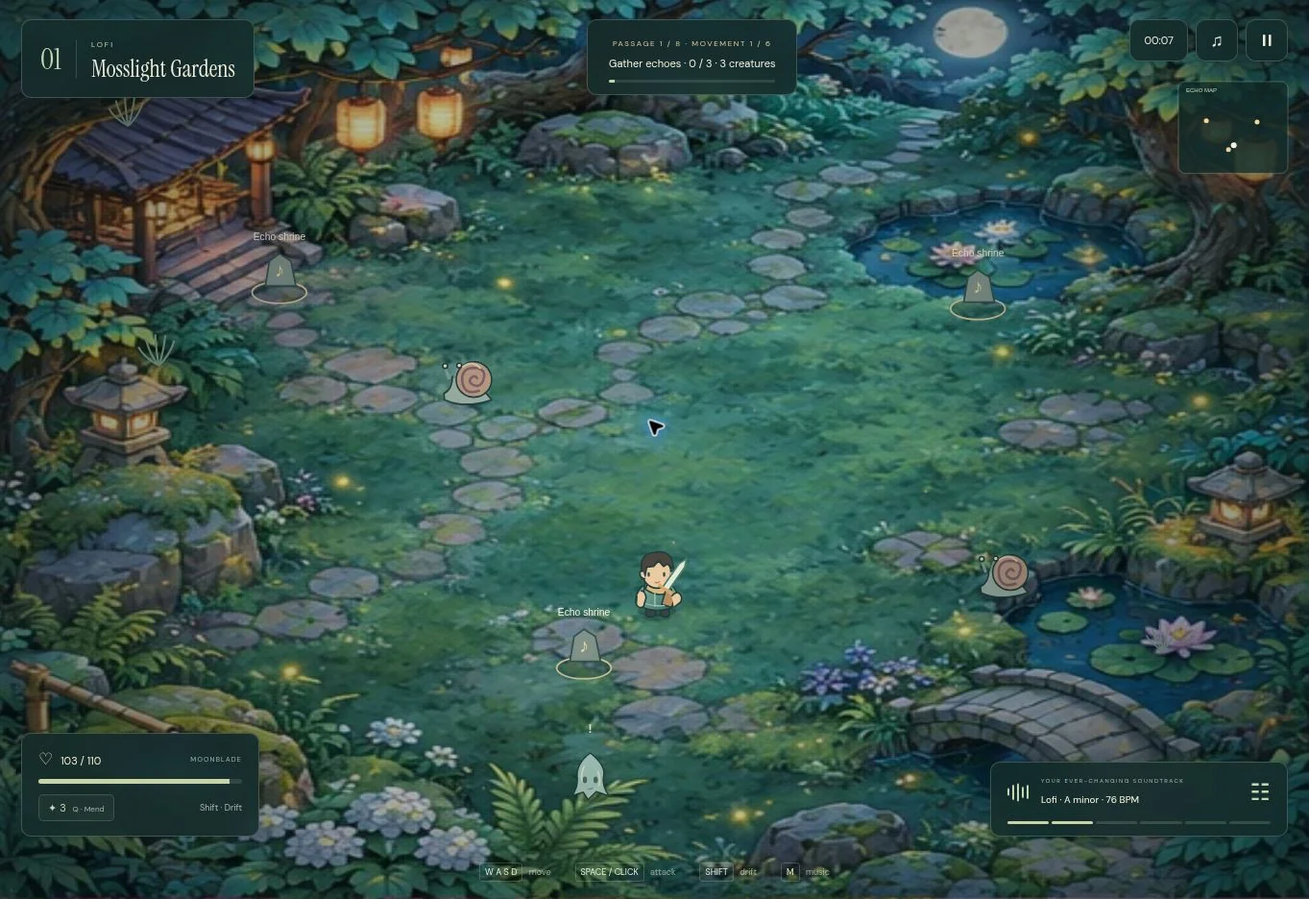
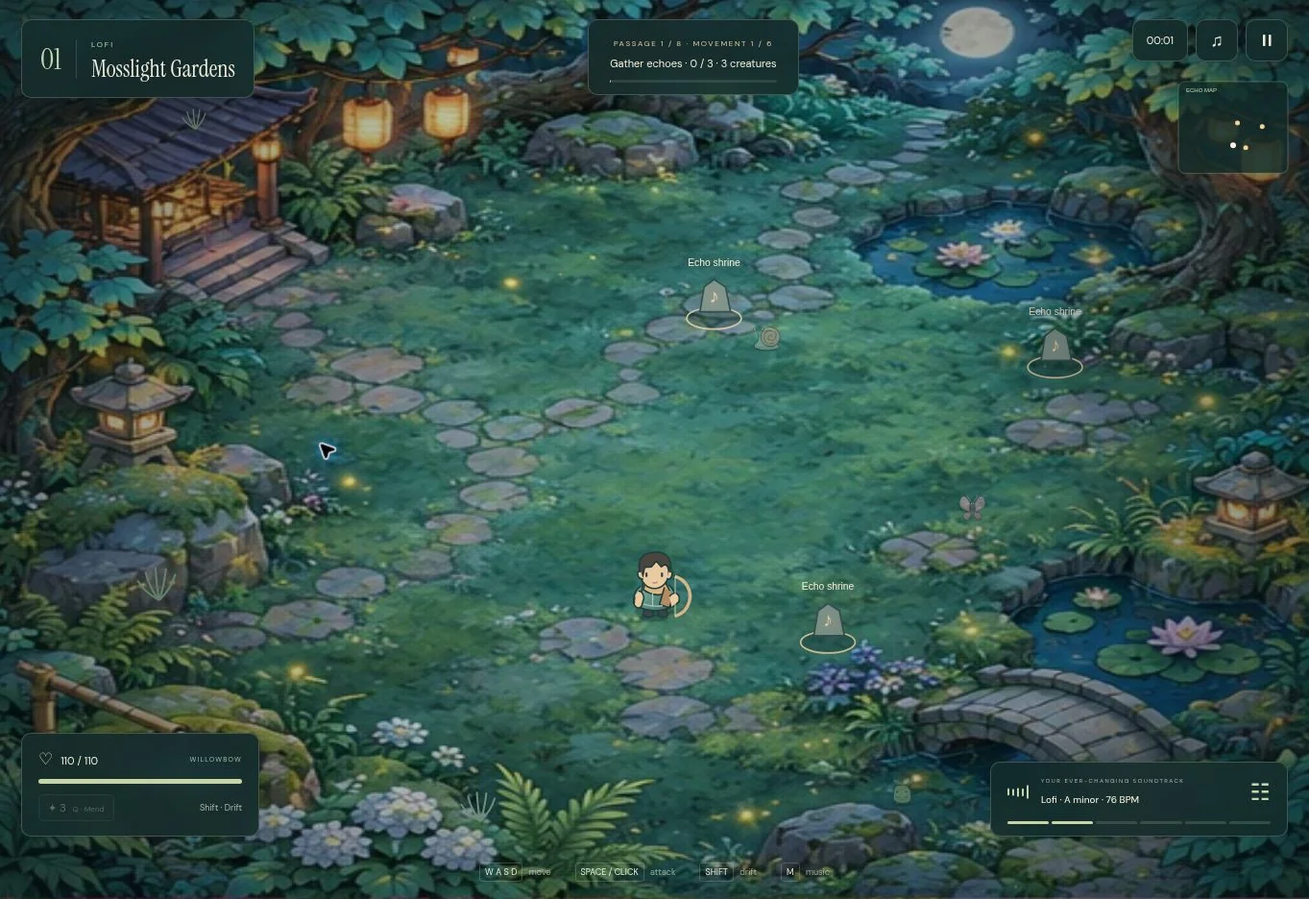
Tune bow balance, fix music effects and M toggle, scatter echo shrines
Reduce bow damage from 24 to 22 and range from 620 to 580. Apply swing to offbeat eighth notes throughout the arrangement, and strengthen filtered tape-delay repeats and live feedback control. Let M close the music panel from sliders and selects while preserving the prior pause state. Randomize each shrine across the map with spacing and safe arrival margins. Version the release module URLs and add behavioral and rendered-audio regression checks.

diff --git a/js/app.js b/js/app.js
@@ -79,9 +79,10 @@ async function resumeGame(){paused=false;closeModal();await audio.resume();}
 function goHome(){if(game?.state==='playing'||game?.state==='boon')checkpoint();closeModal();paused=false;$('game').hidden=true;$('home').hidden=false;document.body.style.overflow='';game=null;clearInput();refreshHome();}
 function showBoons(){paused=true;const boons=[{id:'edge',icon:'↗',name:'A keener edge',desc:'Deal 13% more damage with your weapon.'},{id:'heart',icon:'♡',name:'Room to breathe',desc:'Gain 18 maximum health. Restore 20 health.'},{id:'wind',icon:'⌁',name:'Lighter footsteps',desc:'Move 5.5% faster through every garden.'},{id:'flow',icon:'∞',name:'Find your flow',desc:'Attack 7% faster. Let the rhythm carry you.'}];openModal(`<div class="modal-inner">${header('A SMALL GIFT FOR THE ROAD.','How will you grow?','Choose a little help for this journey. These gifts reset when a new journey begins; your music stays.')}<div class="boon-cards">${boons.map(b=>`<button class="boon-card" data-boon="${b.id}"><span>${b.icon}</span><h3>${b.name}</h3><p>${b.desc}</p></button>`).join('')}</div></div>`,'boon');document.querySelectorAll('[data-boon]').forEach(b=>b.onclick=()=>{paused=false;closeModal();game.chooseBoon(b.dataset.boon);checkpoint();});}
 function showDeath(){paused=true;openModal(`<div class="modal-inner compact">${header('NOTHING BEAUTIFUL IS LOST.','The notes stay with you.','Every sound you discovered is safe in your collection. Take a breath, choose a companion, and wander again.')}<div class="stats-row"><div><b>${formatTime(game.elapsed)}</b><small>TIME WANDERING</small></div><div><b>${game.area+1}</b><small>WORLDS REACHED</small></div><div><b>${UNLOCKS.filter(u=>owned(u.id)).length}</b><small>SOUNDS KEPT</small></div></div><div class="pause-actions"><button id="tryAgain" class="button primary">Follow a new melody <span>↗</span></button><button id="deathHome" class="button secondary">Rest at the title <span>→</span></button></div></div>`,'death');$('tryAgain').onclick=showSetup;$('deathHome').onclick=goHome;}
-function showHelp(){openModal(`<div class="modal-inner">${closeMarkup}${header('A FEW FIELD NOTES.','Find your own rhythm.','Stillwave is an action roguelike with an original generative soundtrack. You never have to attack or move on the beat.')}<div class="notes-grid"><div class="note-card"><h3>Take the long way.</h3><p>Six worlds, each with eight 75-second passages and a guardian. Gather three echo shrines, survive six small encounters, then enter the north gateway. A complete run takes at least an hour of active play, usually around 70–90 minutes. You can pause and save along the way.</p></div><div class="note-card"><h3>Watch. Drift. Mend.</h3><p>Glowing marks show where an attack will land. Drift through danger with a brief invincible dash. Use a mending herb to restore 45 health. Echo shrines, green hearts, and passage endings heal you too. Gentle mode softens incoming damage.</p></div><div class="note-card"><h3>Keep the good sounds.</h3><p>Echo bearers appear in passages 2, 4, 6, and 8. Defeat them for permanent tracks, instruments, keys, effects, and time signatures. Every guardian grants a new instrument and genre. Your musical collection survives death.</p></div><div class="note-card"><h3>Make a little record.</h3><p>Open the music panel with M to mute tracks, change unlocked instruments, and shape the arrangement. All notes share a key and harmony. Finish the six worlds to unlock the full studio and export an original 60-second, stereo WAV.</p></div></div><table class="controls-table"><tbody><tr><td>WASD / arrows</td><td>Move</td></tr><tr><td>Hold click + mouse aim</td><td>Attack toward the pointer</td></tr><tr><td>Hold Space</td><td>Attack with optional nearby-target aim</td></tr><tr><td>Shift / right click</td><td>Drift · brief invincibility · 2-second recharge</td></tr><tr><td>E / Q</td><td>Gather or continue / heal</td></tr><tr><td>M / Escape</td><td>Music panel / pause</td></tr><tr><td>Touch screens</td><td>Left stick to move · hold Attack · tap Drift</td></tr></tbody></table><p class="preview-caption">Progress is stored in this browser. Save & return to title resumes at the start of the current passage. Clearing browser data removes progress.</p><div class="modal-actions"><button id="notesClose" class="button primary">Let’s wander <span>↗</span></button></div></div>`,'help');bindClose(closeModal);$('notesClose').onclick=closeModal;}
+function showHelp(){openModal(`<div class="modal-inner">${closeMarkup}${header('A FEW FIELD NOTES.','Find your own rhythm.','Stillwave is an action roguelike with an original generative soundtrack. You never have to attack or move on the beat.')}<div class="notes-grid"><div class="note-card"><h3>Take the long way.</h3><p>Six worlds, each with eight 75-second passages and a guardian. Gather three echo shrines, survive six small encounters, then enter the north gateway. A complete run takes at least an hour of active play, usually around 70–90 minutes. You can pause and save along the way.</p></div><div class="note-card"><h3>Watch. Drift. Mend.</h3><p>Glowing marks show where an attack will land. Drift through danger with a brief invincible dash. Use a mending herb to restore 45 health. Echo shrines, green hearts, and passage endings heal you too. Gentle mode softens incoming damage.</p></div><div class="note-card"><h3>Keep the good sounds.</h3><p>Echo bearers appear in passages 2, 4, 6, and 8. Defeat them for permanent tracks, instruments, keys, effects, and time signatures. Every guardian grants a new instrument and genre. Your musical collection survives death.</p></div><div class="note-card"><h3>Make a little record.</h3><p>Press M to open or close the music panel. Use it to mute tracks, change unlocked instruments, and shape the arrangement. All notes share a key and harmony. Finish the six worlds to unlock the full studio and export an original 60-second, stereo WAV.</p></div></div><table class="controls-table"><tbody><tr><td>WASD / arrows</td><td>Move</td></tr><tr><td>Hold click + mouse aim</td><td>Attack toward the pointer</td></tr><tr><td>Hold Space</td><td>Attack with optional nearby-target aim</td></tr><tr><td>Shift / right click</td><td>Drift · brief invincibility · 2-second recharge</td></tr><tr><td>E / Q</td><td>Gather or continue / heal</td></tr><tr><td>M / Escape</td><td>Toggle music panel / pause</td></tr><tr><td>Touch screens</td><td>Left stick to move · hold Attack · tap Drift</td></tr></tbody></table><p class="preview-caption">Progress is stored in this browser. Save & return to title resumes at the start of the current passage. Clearing browser data removes progress.</p><div class="modal-actions"><button id="notesClose" class="button primary">Let’s wander <span>↗</span></button></div></div>`,'help');bindClose(closeModal);$('notesClose').onclick=closeModal;}
 function showArchive(){openModal(`<div class="modal-inner">${closeMarkup}${header('A SOUND FOR EVERY MEMORY.','Your little collection.',`${UNLOCKS.filter(u=>owned(u.id)).length} of ${UNLOCKS.length} discoveries. Find echo bearers and guardians to fill the spaces. Every discovery stays after a new journey.`)}<div class="archive-grid">${UNLOCKS.map(u=>`<div class="unlock-card ${owned(u.id)?'':'locked'}"><span class="unlock-icon">${owned(u.id)?'♪':'◇'}</span><small>${u.kind}</small><b>${esc(u.name)}</b><p>${owned(u.id)?esc(u.desc):'Waiting somewhere along the way.'}</p></div>`).join('')}</div><p class="preview-caption">Your starting palette also includes felt piano, drums, chords, and A minor.</p></div>`,'archive');bindClose(closeModal);}
 const layerNames={drums:'Drum room',chords:'Chords',bass:'Bass',melody:'Little melody',pad:'Atmosphere',arp:'Arpeggio'};
+function dismissStudio(){if(exporting)return;if(studioReturn==='victory'||studioReturn==='home')goHome();else if(studioReturn==='pause')showPause();else resumeGame();}
 function showStudio(from='game'){
  studioReturn=from;if(game)paused=true;startAudio();
  const victory=from==='victory',finished=archive.cleared;
@@ -96,7 +97,7 @@ function showStudio(from='game'){
  $('studioVolume').oninput=e=>{music.volume=+e.target.value;$('out-volume').textContent=Math.round(music.volume*100)+'%';changed();};
  $('previewMusic').onclick=async()=>{muted=false;audio.mute(false);await startAudio();syncMusic();$('previewMusic').innerHTML='Music is playing <span>♫</span>';};
  $('newArrangement').onclick=()=>{audio.reseed(newSeed());$('arrangementSeed').textContent='Arrangement '+audio.seed.toString(36).toUpperCase();changed();toast('A new melody is finding its way','You’ll hear it from the next bar.');};
- const done=()=>{if(exporting)return;if(victory||from==='home'){goHome();}else if(from==='pause'){showPause();}else{resumeGame();}};bindClose(done);$('studioDone').onclick=done;
+ bindClose(dismissStudio);$('studioDone').onclick=dismissStudio;
  if($('exportSong'))$('exportSong').onclick=exportSong;
 }
 async function exportSong(){
@@ -108,13 +109,14 @@ async function exportSong(){
 }
 // Desktop and touch use the same simulation; only the input method changes.
 window.addEventListener('keydown',e=>{
+ const textEntry=e.target.isContentEditable||e.target.tagName==='TEXTAREA'||e.target.tagName==='INPUT'&&!['range','checkbox','radio','button'].includes(e.target.type);
+ if((e.code==='KeyM'||e.key?.toLowerCase()==='m')&&!textEntry&&(modalMode==='studio'||game?.state==='playing'&&!modal.open)){e.preventDefault();if(!e.repeat){if(modalMode==='studio')dismissStudio();else showStudio('game');}return;}
  const isField=/INPUT|SELECT|TEXTAREA/.test(e.target.tagName);if(isField)return;
  if(e.code==='Escape'){if(modal.open){e.preventDefault();return;}if(game?.state==='playing')showPause();return;}
- if(e.code==='KeyM'&&game?.state==='playing'&&!modal.open){e.preventDefault();showStudio('game');return;}
  if(!game||modal.open||paused)return;
  if(['Space','ArrowUp','ArrowDown','ArrowLeft','ArrowRight'].includes(e.code))e.preventDefault();keys.add(e.code);if(!e.repeat&&e.code==='KeyE')input.interact=true;if(!e.repeat&&e.code==='KeyQ')input.heal=true;
 });window.addEventListener('keyup',e=>keys.delete(e.code));
-modal.addEventListener('cancel',e=>{e.preventDefault();if(exporting)return;if(modalMode==='pause')resumeGame();else if(modalMode==='studio'){if(studioReturn==='victory'||studioReturn==='home')goHome();else if(studioReturn==='pause')showPause();else resumeGame();}else if(['setup','archive','help'].includes(modalMode))closeModal();});
+modal.addEventListener('cancel',e=>{e.preventDefault();if(exporting)return;if(modalMode==='pause')resumeGame();else if(modalMode==='studio')dismissStudio();else if(['setup','archive','help'].includes(modalMode))closeModal();});
 $('world').addEventListener('pointermove',e=>{if(e.pointerType!=='mouse')return;const rect=$('world').getBoundingClientRect(),pt=renderer.toWorld(e.clientX-rect.left,e.clientY-rect.top);input.aimX=pt.x;input.aimY=pt.y;input.hasAim=true;});
 $('world').addEventListener('pointerdown',e=>{if(modal.open)return;if(e.pointerType==='mouse'){if(e.button===2)input.dash=true;else{input.mouseDown=true;const rect=$('world').getBoundingClientRect(),pt=renderer.toWorld(e.clientX-rect.left,e.clientY-rect.top);input.aimX=pt.x;input.aimY=pt.y;input.hasAim=true;}}});
 window.addEventListener('pointerup',e=>{if(e.pointerType==='mouse')input.mouseDown=false;});$('world').addEventListener('contextmenu',e=>e.preventDefault());

diff --git a/js/music.js b/js/music.js
@@ -1,13 +1,20 @@
 import {REGIONS,KEYS,METERS,seeded,scaleNote,progression,clamp} from './data.js';
 export function beatSeconds(s){return 60/clamp(s.bpm,60,96)*(s.meter==='6/8'?.5:1);}
 export function barSeconds(s){return beatSeconds(s)*METERS[s.meter];}
+export function grooveTime(time,s){
+ const beat=beatSeconds(s),phase=(time/beat)%1;
+ // Delay the second eighth of each beat, including its subdivisions.
+ // At maximum swing the eighths form a relaxed 2:1 shuffle.
+ return time+(phase>=.5-1e-8&&phase<1-1e-8?beat*(clamp(s.swing||0,0,.28)/.28)/6:0);
+}
+export function delayParameters(s){const amount=clamp(s.delay||0,0,.45)/.45;return {time:beatSeconds(s)*.75,mix:amount*.60,feedback:.20+amount*.32};}
 export function composeBar(s,seed,bar){
  const rng=seeded((seed+Math.floor(bar/4)*6719)>>>0),detail=seeded((seed+bar*7919)>>>0);
  const beats=METERS[s.meter]||4,beat=beatSeconds(s),step=beat/4,steps=beats*4,root=KEYS[s.key]||57,deg=progression(s.scale,bar,seed),events=[];
  const density=s.density??.62,genre=s.genre|0;
- const push=(layer,t,n,d,v=.5,inst)=>{if(s.layers[layer])events.push({layer,t:Math.max(0,t),note:n,duration:d,velocity:v*(s.levels[layer]??.6),instrument:inst||s.instruments[layer]});};
+ const push=(layer,t,n,d,v=.5,inst)=>{if(s.layers[layer])events.push({layer,t:grooveTime(Math.max(0,t),s),note:n,duration:d,velocity:v*(s.levels[layer]??.6),instrument:inst||s.instruments[layer]});};
  const chord=[deg,deg+2,deg+4,...(genre===0||genre===3||genre===4?[deg+6]:[])],inversion=Math.floor(rng()*3);
- const groove=i=>i*step+(i%2?step*(s.swing||0):0);
+ const groove=i=>i*step;
  if(s.layers.chords){const times=genre===3?[0,beat*1.5,beat*2.5].filter(t=>t<beat*beats):[0];for(const t of times)chord.forEach((n,i)=>push('chords',t+i*.008,scaleNote(root,s.scale,n)+(i<inversion?12:0),genre===3?beat*.9:beat*beats*.86,.27+detail()*.06));}
  if(s.layers.pad)for(const n of [deg,deg+4,deg+9])push('pad',0,scaleNote(root-12,s.scale,n),beat*beats*1.1,.19);
  if(s.layers.bass){for(let b=0;b<beats;b++){if(b===0||b===Math.floor(beats/2)||(genre===3&&b===beats-1))push('bass',b*beat,scaleNote(root-24,s.scale,deg+(b===beats-1?4:0)),beat*(genre===4?1.6:.8),.62);}}
@@ -26,14 +33,14 @@ export function composeBar(s,seed,bar){
 }
 function noise(ctx){const b=ctx.createBuffer(1,ctx.sampleRate,ctx.sampleRate),d=b.getChannelData(0),rng=seeded(801);for(let i=0;i<d.length;i++)d[i]=rng()*2-1;return b;}
 function impulse(ctx){const len=Math.floor(ctx.sampleRate*2.7),b=ctx.createBuffer(2,len,ctx.sampleRate),rng=seeded(91);for(let c=0;c<2;c++){let last=0;const d=b.getChannelData(c);for(let i=0;i<len;i++){last=last*.45+(rng()*2-1)*.55;d[i]=last*Math.pow(1-i/len,3);}}return b;}
-function chain(ctx,s,destination){
+export function createMusicGraph(ctx,s,destination){
  const input=ctx.createGain(),filter=ctx.createBiquadFilter();filter.type='lowpass';filter.frequency.value=11000-(s.warmth||0)*8000;filter.Q.value=.45;
  const dry=ctx.createGain();dry.gain.value=.84;const convolver=ctx.createConvolver();convolver.buffer=impulse(ctx);const wet=ctx.createGain();wet.gain.value=(s.reverb||0)*.50;
- const delay=ctx.createDelay(2),feedback=ctx.createGain(),delayMix=ctx.createGain();delay.delayTime.value=beatSeconds(s)*.75;feedback.gain.value=.23;delayMix.gain.value=(s.delay||0)*.5;
+ const echo=delayParameters(s),delay=ctx.createDelay(2),feedback=ctx.createGain(),delayMix=ctx.createGain(),echoLow=ctx.createBiquadFilter(),echoHigh=ctx.createBiquadFilter();delay.delayTime.value=echo.time;feedback.gain.value=echo.feedback;delayMix.gain.value=echo.mix;echoLow.type='lowpass';echoLow.frequency.value=3000;echoLow.Q.value=.4;echoHigh.type='highpass';echoHigh.frequency.value=160;echoHigh.Q.value=.4;
  const compressor=ctx.createDynamicsCompressor();compressor.threshold.value=-20;compressor.knee.value=20;compressor.ratio.value=3.2;compressor.attack.value=.012;compressor.release.value=.3;
  const master=ctx.createGain();master.gain.value=(s.volume??.65)*.8;
- input.connect(filter);filter.connect(dry);dry.connect(compressor);filter.connect(convolver);convolver.connect(wet);wet.connect(compressor);filter.connect(delay);delay.connect(feedback);feedback.connect(delay);delay.connect(delayMix);delayMix.connect(compressor);compressor.connect(master);master.connect(destination);
- return {input,filter,wet,delay,delayMix,master,noise:noise(ctx)};
+ input.connect(filter);filter.connect(dry);dry.connect(compressor);filter.connect(convolver);convolver.connect(wet);wet.connect(compressor);filter.connect(delay);delay.connect(echoLow);echoLow.connect(echoHigh);echoHigh.connect(feedback);feedback.connect(delay);echoHigh.connect(delayMix);delayMix.connect(compressor);compressor.connect(master);master.connect(destination);
+ return {input,filter,wet,delay,feedback,delayMix,master,noise:noise(ctx)};
 }
 function percussion(ctx,out,e,t,buf){
  const gain=ctx.createGain();gain.connect(out);const v=e.velocity;
@@ -52,14 +59,14 @@ export function scheduleBar(ctx,graph,s,seed,bar,start,limit=Infinity){for(const
 export function encodeWav(channels,sampleRate){const length=channels[0].length,buffer=new ArrayBuffer(44+length*channels.length*2),v=new DataView(buffer);const text=(off,s)=>{for(let i=0;i<s.length;i++)v.setUint8(off+i,s.charCodeAt(i));};text(0,'RIFF');v.setUint32(4,buffer.byteLength-8,true);text(8,'WAVE');text(12,'fmt ');v.setUint32(16,16,true);v.setUint16(20,1,true);v.setUint16(22,channels.length,true);v.setUint32(24,sampleRate,true);v.setUint32(28,sampleRate*channels.length*2,true);v.setUint16(32,channels.length*2,true);v.setUint16(34,16,true);text(36,'data');v.setUint32(40,length*channels.length*2,true);let off=44;for(let i=0;i<length;i++)for(let c=0;c<channels.length;c++){const sample=clamp(channels[c][i],-1,1);v.setInt16(off,Math.round(sample*(sample<0?32768:32767)),true);off+=2;}return buffer;}
 export class MusicEngine{
  constructor(settings,seed){this.settings=structuredClone(settings);this.seed=seed;this.ctx=null;this.bar=0;this.next=0;this.muted=false;this.onBar=()=>{};}
- async start(){if(!this.ctx){const C=globalThis.AudioContext||globalThis.webkitAudioContext;if(!C)throw new Error('This browser does not support Web Audio.');this.ctx=new C();this.graph=chain(this.ctx,this.settings,this.ctx.destination);}await this.ctx.resume();if(!this.timer){this.next=this.ctx.currentTime+.08;this.tick();this.timer=setInterval(()=>this.tick(),40);}}
+ async start(){if(!this.ctx){const C=globalThis.AudioContext||globalThis.webkitAudioContext;if(!C)throw new Error('This browser does not support Web Audio.');this.ctx=new C();this.graph=createMusicGraph(this.ctx,this.settings,this.ctx.destination);}await this.ctx.resume();if(!this.timer){this.next=this.ctx.currentTime+.08;this.tick();this.timer=setInterval(()=>this.tick(),40);}}
  tick(){if(!this.ctx||this.ctx.state!=='running')return;while(this.next<this.ctx.currentTime+.16){const s=this.settings;this.updateGraph();scheduleBar(this.ctx,this.graph,s,this.seed,this.bar,this.next);this.onBar(this.bar,s,this.next);this.next+=barSeconds(s);this.bar++;}}
- updateGraph(){if(!this.graph)return;const now=this.ctx.currentTime,g=this.graph,s=this.settings;for(const [param,val]of [[g.filter.frequency,11000-s.warmth*8000],[g.wet.gain,s.reverb*.5],[g.delayMix.gain,s.delay*.5],[g.delay.delayTime,beatSeconds(s)*.75],[g.master.gain,this.muted?0:s.volume*.8]])param.setTargetAtTime(val,now,.2);}
+ updateGraph(){if(!this.graph)return;const now=this.ctx.currentTime,g=this.graph,s=this.settings,echo=delayParameters(s);for(const [param,val]of [[g.filter.frequency,11000-s.warmth*8000],[g.wet.gain,s.reverb*.5],[g.delayMix.gain,echo.mix],[g.feedback.gain,echo.feedback],[g.delay.delayTime,echo.time],[g.master.gain,this.muted?0:s.volume*.8]])param.setTargetAtTime(val,now,.2);}
  set(s){this.settings=structuredClone(s);this.updateGraph();}
  reseed(seed){this.seed=seed;}
  mute(m){this.muted=m;this.updateGraph();}
  async suspend(){if(this.ctx?.state==='running')await this.ctx.suspend();}
  async resume(){if(this.ctx){await this.ctx.resume();this.tick();}}
- async renderMinute(s=this.settings,seed=this.seed,onProgress=()=>{}){const Offline=globalThis.OfflineAudioContext||globalThis.webkitOfflineAudioContext;if(!Offline)throw new Error('Song rendering is not supported in this browser.');const rate=44100,ctx=new Offline(2,rate*60,rate),g=chain(ctx,s,ctx.destination);let t=.08,bar=0;while(t<58.5){scheduleBar(ctx,g,s,seed,bar,t,58.5);t+=barSeconds(s);bar++;}g.master.gain.setValueAtTime(0,0);g.master.gain.linearRampToValueAtTime(s.volume*.8,.45);g.master.gain.setValueAtTime(s.volume*.8,56.7);g.master.gain.linearRampToValueAtTime(0,59.9);onProgress('Rendering your arrangement…');const result=await ctx.startRendering();onProgress('Preparing your WAV…');await new Promise(r=>setTimeout(r,0));return new Blob([encodeWav([result.getChannelData(0),result.getChannelData(1)],rate)],{type:'audio/wav'});}
+ async renderMinute(s=this.settings,seed=this.seed,onProgress=()=>{}){const Offline=globalThis.OfflineAudioContext||globalThis.webkitOfflineAudioContext;if(!Offline)throw new Error('Song rendering is not supported in this browser.');const rate=44100,ctx=new Offline(2,rate*60,rate),g=createMusicGraph(ctx,s,ctx.destination);let t=.08,bar=0;while(t<58.5){scheduleBar(ctx,g,s,seed,bar,t,58.5);t+=barSeconds(s);bar++;}g.master.gain.setValueAtTime(0,0);g.master.gain.linearRampToValueAtTime(s.volume*.8,.45);g.master.gain.setValueAtTime(s.volume*.8,56.7);g.master.gain.linearRampToValueAtTime(0,59.9);onProgress('Rendering your arrangement…');const result=await ctx.startRendering();onProgress('Preparing your WAV…');await new Promise(r=>setTimeout(r,0));return new Blob([encodeWav([result.getChannelData(0),result.getChannelData(1)],rate)],{type:'audio/wav'});}
  sfx(kind){if(!this.ctx||this.muted||this.ctx.state!=='running')return;const t=this.ctx.currentTime;const notes=kind==='unlock'?[72,76,79,84]:kind==='heal'?[69,76]:kind==='hit'?[48]:kind==='dash'?[62]:[55];notes.forEach((n,i)=>tone(this.ctx,this.graph.input,{note:n,duration:kind==='unlock'?.3:.06,velocity:kind==='hit'?.045:.10,instrument:'bell',layer:'melody'},t+i*.085));}
 }

diff --git a/tests/audio-effects.html b/tests/audio-effects.html
@@ -1,0 +1,14 @@
+<!doctype html><html lang="en"><meta charset="utf-8"><title>Stillwave · effect regression checks</title><style>body{font:15px system-ui;background:#17332f;color:#e6ecd4;max-width:1000px;margin:40px auto;padding:30px}button{background:#c4d7ad;color:#17332f;border:0;padding:14px 20px;border-radius:7px;cursor:pointer}pre{line-height:1.9;white-space:pre-wrap}audio{width:100%}.players{display:grid;grid-template-columns:1fr 1fr;gap:25px}</style><h1>Stillwave · effect regression checks</h1><p>Local development page. Excluded from the published build.</p><button id="runEffects">Test effects and export</button><pre id="out" aria-live="polite">Ready.</pre><section id="players" class="players"></section><script type="module">
+import {MusicEngine,createMusicGraph,scheduleBar,barSeconds,delayParameters,encodeWav} from './js/music.js?v=1.0.1';
+import {DEFAULT_MUSIC,LAYERS} from './js/data.js?v=1.0.1';
+const $=id=>document.getElementById(id),lines=[];
+function report(ok,msg){lines.push((ok?'PASS ':'FAIL ')+msg);$('out').textContent=lines.join('\n');if(!ok)throw new Error(msg);}
+function energy(data,sr,start,end){let e=0;for(let i=Math.floor(start*sr);i<Math.min(data.length,Math.floor(end*sr));i++)e+=data[i]*data[i];return e;}
+async function probe(delay,liveDelay){const sr=22050,ctx=new OfflineAudioContext(2,sr*2.4,sr),s={...structuredClone(DEFAULT_MUSIC),reverb:0,delay},graph=createMusicGraph(ctx,s,ctx.destination);if(liveDelay!==undefined){const engine=new MusicEngine(s,1);engine.ctx=ctx;engine.graph=graph;engine.set({...s,delay:liveDelay});}const osc=ctx.createOscillator(),g=ctx.createGain();osc.frequency.value=640;g.gain.value=.04;osc.connect(g);g.connect(graph.input);osc.start(.12);osc.stop(.18);const result=await ctx.startRendering();return {data:result.getChannelData(0),sr,time:delayParameters(s).time};}
+async function clip(s){const sr=22050,ctx=new OfflineAudioContext(2,sr*8,sr),graph=createMusicGraph(ctx,s,ctx.destination);for(let bar=0,t=.05;t<7;bar++,t+=barSeconds(s))scheduleBar(ctx,graph,s,991,bar,t,7);return ctx.startRendering();}
+$('runEffects').onclick=async()=>{lines.length=0;$('runEffects').disabled=true;$('out').textContent='Checking actual Web Audio output…';try{
+ const dry=await probe(0),wet=await probe(.45),live=await probe(0,.45);const dryTail=energy(dry.data,dry.sr,.4,2.3),wetTail=energy(wet.data,wet.sr,.4,2.3),liveTail=energy(live.data,live.sr,.4,2.3);report(dryTail<1e-10&&wetTail>1e-5,'Tape delay produces real echoes: off '+dryTail.toExponential(2)+' / on '+wetTail.toExponential(2));const first=energy(wet.data,wet.sr,.12+wet.time,.32+wet.time),second=energy(wet.data,wet.sr,.12+2*wet.time,.32+2*wet.time);report(second>1e-6&&second<first,'Echo feedback creates quieter subsequent repeats');report(liveTail>wetTail*.7,'Changing the live delay control updates the actual audio graph');
+ const s=structuredClone(DEFAULT_MUSIC);s.layers=Object.fromEntries(LAYERS.map(l=>[l,true]));s.density=1;s.swing=0;s.delay=0;const a=await clip(s),b=await clip({...s,swing:.28});let e=0,d=0;const ad=a.getChannelData(0),bd=b.getChannelData(0);for(let i=0;i<ad.length;i++){e+=ad[i]*ad[i];d+=(ad[i]-bd[i])**2;}report(Math.sqrt(d/e)>.12,'Swing changes the rendered rhythm: relative waveform difference '+Math.sqrt(d/e).toFixed(3));$('players').innerHTML='';for(const [label,result]of [['Straight rhythm',a],['Maximum swing',b]]){const data=new Blob([encodeWav([result.getChannelData(0),result.getChannelData(1)],result.sampleRate)],{type:'audio/wav'});const box=document.createElement('div');box.innerHTML=`<h3>${label}</h3><audio controls src="${URL.createObjectURL(data)}"></audio>`;$('players').append(box);}
+ $('out').textContent=lines.join('\n')+'\nRendering a full song with maximum swing and tape delay…';const loud={...s,swing:.28,delay:.45,reverb:.7,volume:1,levels:Object.fromEntries(LAYERS.map(l=>[l,1]))},blob=await new MusicEngine(loud,919).renderMinute(loud,919),bytes=await blob.arrayBuffer(),view=new DataView(bytes);let peak=0,clipped=0;for(let i=44;i<bytes.byteLength;i+=2){const value=Math.abs(view.getInt16(i,true)/32768);peak=Math.max(peak,value);if(value>=32767/32768)clipped++;}report((bytes.byteLength-44)/4/44100===60&&view.getUint16(22,true)===2&&clipped===0,'Full-effect export: 60 seconds, stereo, peak '+peak.toFixed(3)+', '+clipped+' clipped samples');$('out').textContent=lines.join('\n')+'\nAll effect checks complete.';
+ }catch(e){$('out').textContent=lines.join('\n')+'\nERROR '+e.message;}finally{$('runEffects').disabled=false;}};
+</script></html>

diff --git a/js/engine.js b/js/engine.js
@@ -1,5 +1,13 @@
 import {WORLD,REGIONS,WEAPONS,PASSAGES,PASSAGE_SECONDS,seeded,newSeed,clamp} from './data.js';
 const distance=(a,b)=>Math.hypot(a.x-b.x,a.y-b.y);
+export function placeEchoShrines(rng,spawn){
+ const shrines=[],exit={x:WORLD.w*.5,y:170};
+ const add=p=>{if(distance(p,spawn)<210||distance(p,exit)<175||shrines.some(s=>distance(p,s)<330))return;shrines.push({...p,active:false});};
+ for(let i=0;i<96&&shrines.length<3;i++)add({x:WORLD.w*(.13+rng()*.74),y:WORLD.h*(.20+rng()*.65)});
+ // Bounded fallback also handles a degenerate random source without hanging.
+ for(const [x,y]of [[.18,.25],[.82,.25],[.18,.80],[.82,.80],[.5,.34]]){if(shrines.length===3)break;add({x:x*WORLD.w,y:y*WORLD.h});}
+ return shrines;
+}
 export class Journey{
  constructor({seed=newSeed(),weapon='sword',difficulty='standard',area=0,passage=0,elapsed=0,kills=0,boons=[],health=110,herbs=3,onEvent=()=>{}}={}){
   Object.assign(this,{seed,weapon,difficulty,area,passage,elapsed,kills,boons,onEvent});this.rng=seeded(seed);this.state='playing';this.player={x:WORLD.w/2,y:WORLD.h/2,r:17,hp:health,maxHp:110,invincible:1.5,attack:0,dash:0,dashTime:0,dx:1,dy:0,facing:0,combo:0,herbs:clamp(herbs,0,4)};this.rebuildStats();this.enterRoom();
@@ -9,7 +17,7 @@ export class Journey{
   const r=seeded((this.seed+this.area*10007+this.passage*1031)>>>0);this.roomRng=r;this.roomTime=0;this.wave=0;this.enemies=[];this.projectiles=[];this.telegraphs=[];this.effects=[];this.pickups=[];this.attackArcs=[];this.portal=false;this.echoes=0;this.roomKills=0;this.roomDamage=0;this.guardianDefeated=false;this.player.x=WORLD.w/2;this.player.y=WORLD.h*.68;this.player.invincible=2;
   this.isBoss=this.passage===PASSAGES;this.obstacles=[];this.decor=[];
   for(let i=0;i<48;i++){const x=100+r()*(WORLD.w-200),y=90+r()*(WORLD.h-180);if(Math.hypot(x-WORLD.w/2,y-WORLD.h*.68)<100)continue;const edge=x<260||x>WORLD.w-260||y<200||y>WORLD.h-160;this.decor.push({x,y,kind:Math.floor(r()*6),scale:.7+r()*.6,phase:r()*6.28,edge});}
-  this.shrines=this.isBoss?[]:[{x:WORLD.w*(.22+r()*.12),y:WORLD.h*(.31+r()*.13),active:false},{x:WORLD.w*(.66+r()*.12),y:WORLD.h*(.31+r()*.13),active:false},{x:WORLD.w*(.40+r()*.2),y:WORLD.h*(.70+r()*.12),active:false}];
+  this.shrines=this.isBoss?[]:placeEchoShrines(r,this.player);
   this.roomFlavor=this.isBoss?'guardian':['Lantern walk','Wildflower drift','Quiet crossing','A slower current','Silver branches','The listening path','A little clearing','Echoes at dusk'][(this.passage+this.area*3)%8];
   this.roomModifier=this.isBoss?'none':['none','bloom','breeze'][Math.floor(r()*3)];
   this.onEvent({type:'room',area:this.area,passage:this.passage,boss:this.isBoss});

diff --git a/index.html b/index.html
@@ -3,7 +3,7 @@
 <head>
 <meta charset="utf-8"><meta name="viewport" content="width=device-width,initial-scale=1,viewport-fit=cover"><meta name="theme-color" content="#142c2b">
 <title>Stillwave — Find your sound</title><meta name="description" content="A gentle musical roguelike. Wander through six quiet worlds, discover new sounds, and take a little music home.">
-<link rel="icon" href="./icon.svg" type="image/svg+xml"><link rel="stylesheet" href="./styles.css?v=stillwave-1.0.0">
+<link rel="icon" href="./icon.svg" type="image/svg+xml"><link rel="stylesheet" href="./styles.css?v=stillwave-1.0.1">
 </head>
 <body>
 <div id="home" class="home">
@@ -33,5 +33,5 @@
 <div id="toastStack" class="toast-stack" aria-live="polite" aria-atomic="false"></div>
 <dialog id="modal" class="modal"><div id="modalBody"></div></dialog>
 <noscript><div class="no-script">Stillwave needs JavaScript to play and compose its music.</div></noscript>
-<script type="module" src="./js/app.js"></script>
+<script type="module" src="./js/app.js?v=1.0.1"></script>
 </body></html>

diff --git a/js/data.js b/js/data.js
@@ -1,4 +1,4 @@
-export const VERSION = '1.0.0';
+export const VERSION = '1.0.1';
 export const PASSAGES = 8;
 export const PASSAGE_SECONDS = 75;
 export const WORLD = {w:1600,h:1100};
@@ -12,7 +12,7 @@ export const REGIONS = [
 ];
 export const WEAPONS = {
   sword:{name:'Moonblade',type:'Sword',damage:36,cooldown:.62,range:120,desc:'A wide, forgiving arc. Higher damage, close to the music.',perk:'Cleave nearby foes · every third hit restores 1 health'},
-  bow:{name:'Willowbow',type:'Bow & arrow',damage:24,cooldown:.48,range:620,desc:'A light, steady rhythm. Make a little room for yourself.',perk:'Long range · arrows pierce one extra foe'}
+  bow:{name:'Willowbow',type:'Bow & arrow',damage:22,cooldown:.48,range:580,desc:'A light, steady rhythm. Make a little room for yourself.',perk:'Long range · arrows pierce one extra foe'}
 };
 export const SCALES = {minor:[0,2,3,5,7,8,10],major:[0,2,4,5,7,9,11],dorian:[0,2,3,5,7,9,10],pentatonic:[0,3,5,7,10]};
 export const KEYS = {'A':57,'C':60,'D':62,'E':52,'F':53,'G':55};

diff --git a/README.md b/README.md
@@ -17,16 +17,16 @@ A gentle musical action roguelike. Wander through six illustrated worlds, collec
 | 5 | Cloudrest Monastery | Ambient | The Keeper of Silence |
 | 6 | The First Light | Downtempo | The Sun in Bloom |
 
-Each world contains eight passages and a distinct, two-phase guardian. Each passage unfolds through six encounters over at least 75 seconds. Collect the three echo shrines and clear the creatures to open the north gateway. Shrine positions, encounters, scenery details, and musical arrangements vary with the journey seed. Some passages have a gentle movement boost or a bonus healing bloom.
+Each world contains eight passages and a distinct, two-phase guardian. Each passage unfolds through six encounters over at least 75 seconds. Collect the three echo shrines and clear the creatures to open the north gateway. Three echo shrines are scattered independently across the walkable map, with spacing from one another, the arrival point, and the exit. Encounters, scenery details, and musical arrangements also vary with the journey seed. Some passages have a gentle movement boost or a bonus healing bloom.
 
 The 48 passages alone take at least 60 minutes of active simulation, before boss fights and exploration. A first clear is designed for about 70–90 minutes, although actual player pacing has not been established through an hour-long human playtest. The game pauses in the background. Save & return to title lets you take longer breaks.
 
 Pick one companion for a run:
 
 - **Moonblade:** 36 damage per hit, 0.62-second base recovery, broad cleave, 120-unit reach, and 1 health restored every third successful swing. Better damage, more exposure.
-- **Willowbow:** 24 damage per hit, 0.48-second base recovery, 620-unit reach, arrows that can hit two enemies. More room to dodge, lower damage.
+- **Willowbow:** 22 damage per hit, 0.48-second base recovery, 580-unit reach, arrows that can hit two enemies. More room to dodge, lower damage.
 
-Attack recovery and travel time create measured base single-target rates 55.8 and 48 damage per second respectively in the 20-second stationary-target regression scenario. Both weapons receive the same run upgrade opportunities. **Gentle** mode reduces enemy movement and incoming damage; **Steady** provides modest resistance. All enemy attacks have a wind-up. Drifting briefly grants invincibility.
+Attack recovery and travel time create measured base single-target rates 55.8 and 44 damage per second respectively in the 20-second stationary-target regression scenario. Both weapons receive the same run upgrade opportunities. **Gentle** mode reduces enemy movement and incoming damage; **Steady** provides modest resistance. All enemy attacks have a wind-up. Drifting briefly grants invincibility.
 
 Echo shrines heal for 8, dropped hearts heal for 10, completed passages heal for 16, and mending herbs heal for 45. A guardian heals for 40, and entering a new world restores health. Every few passages, choose a temporary upgrade to attack damage, maximum health, movement, or attack speed.
 
@@ -34,7 +34,7 @@ Echo shrines heal for 8, dropped hearts heal for 10, completed passages heal for
 
 There are 36 collection entries, including the starting Lofi palette. Echo bearers appear in passages 2, 4, 6, and 8 of every world. Chordkeepers summon companions, Tempo Wanderers charge, Echo Weavers scatter notes, and Meter Wardens release circular patterns. Defeat them to unlock one of the 24 track/control discoveries. Each guardian unlocks its instrument and genre palette.
 
-Unlocks include bass, melody, atmosphere, and arpeggio tracks; instruments; six keys; minor, major, Dorian, and pentatonic scales; 4/4, 3/4, 6/8, and 5/4; tempo from 60–96 BPM; swing; reverb; tape delay; warmth; and arrangement density. Notes share a diatonic harmonic progression. Music is composed locally with seeded motifs, changing phrases, synthesized instruments, and genre-specific rhythms. There is no prerecorded music loop and no timing requirement for combat.
+Unlocks include bass, melody, atmosphere, and arpeggio tracks; instruments; six keys; minor, major, Dorian, and pentatonic scales; 4/4, 3/4, 6/8, and 5/4; tempo from 60–96 BPM; swing; reverb; tape delay; warmth; and arrangement density. Swing shifts offbeat eighth notes throughout the active arrangement, up to a gentle 2:1 shuffle. Tape delay adds audible, tempo-synced repeats with filtered feedback. Notes share a diatonic harmonic progression. Music is composed locally with seeded motifs, changing phrases, synthesized instruments, and genre-specific rhythms. There is no prerecorded music loop and no timing requirement for combat.
 
 Your collection survives death. A new run starts from the first world with your chosen weapon. Run-only combat upgrades reset. Your current run, musical settings, completed guardians, and collection save automatically in browser localStorage. Save & return to title resumes at the **start of the current passage**, with saved health, herbs, weapon, upgrades, and elapsed run time. This is a device-local save; clearing browser storage removes it.
 
@@ -54,7 +54,7 @@ Complete the six guardians and enter the final gateway to open the completion sc
 | Drift | Shift / right click | Drift |
 | Heal | Q / Mend button | Mend button |
 | Gather echo / use gateway | E / on-screen button | Gather / Continue |
-| Music panel | M / music dock | Music dock |
+| Music panel | M to open or close / music dock | Music dock |
 | Pause | Escape / pause button | Pause button |
 
 Assisted aim for Space and reduced motion are configurable in Pause. Music continues while a visible pause or music panel is open, and suspends when the tab is hidden. Browsers require an initial interaction before playing sound. If your OS suspends audio, resume through the visible music controls.
@@ -81,6 +81,7 @@ Source layout:
 - `js/app.js`: input, interface, audio integration, and lifecycle.
 - `assets/worlds.webp`: original generated environment atlas.
 - `tests/game.test.mjs`: behavioral checks for progression, persistence, harmony, weapons, damage, and WAV structure.
+- `tests/audio-effects.html`: local-only checks for audible swing, echo output, live delay changes, and a full-effect WAV export; copy to `dist/audio-effects.html` for browser QA.
 - `tests/browser.html`: local-only Web Audio verification and archive fixtures; not included in `dist/`. For local QA, copy it to `dist/qa.html`, serve `dist/`, and open `/qa.html`. Rebuild before publication to remove it.
 
 GitHub Actions runs the tests, builds `dist/`, and publishes it to the repository’s existing GitHub Pages site on pushes to `main`. The repository name and public address are unchanged.
